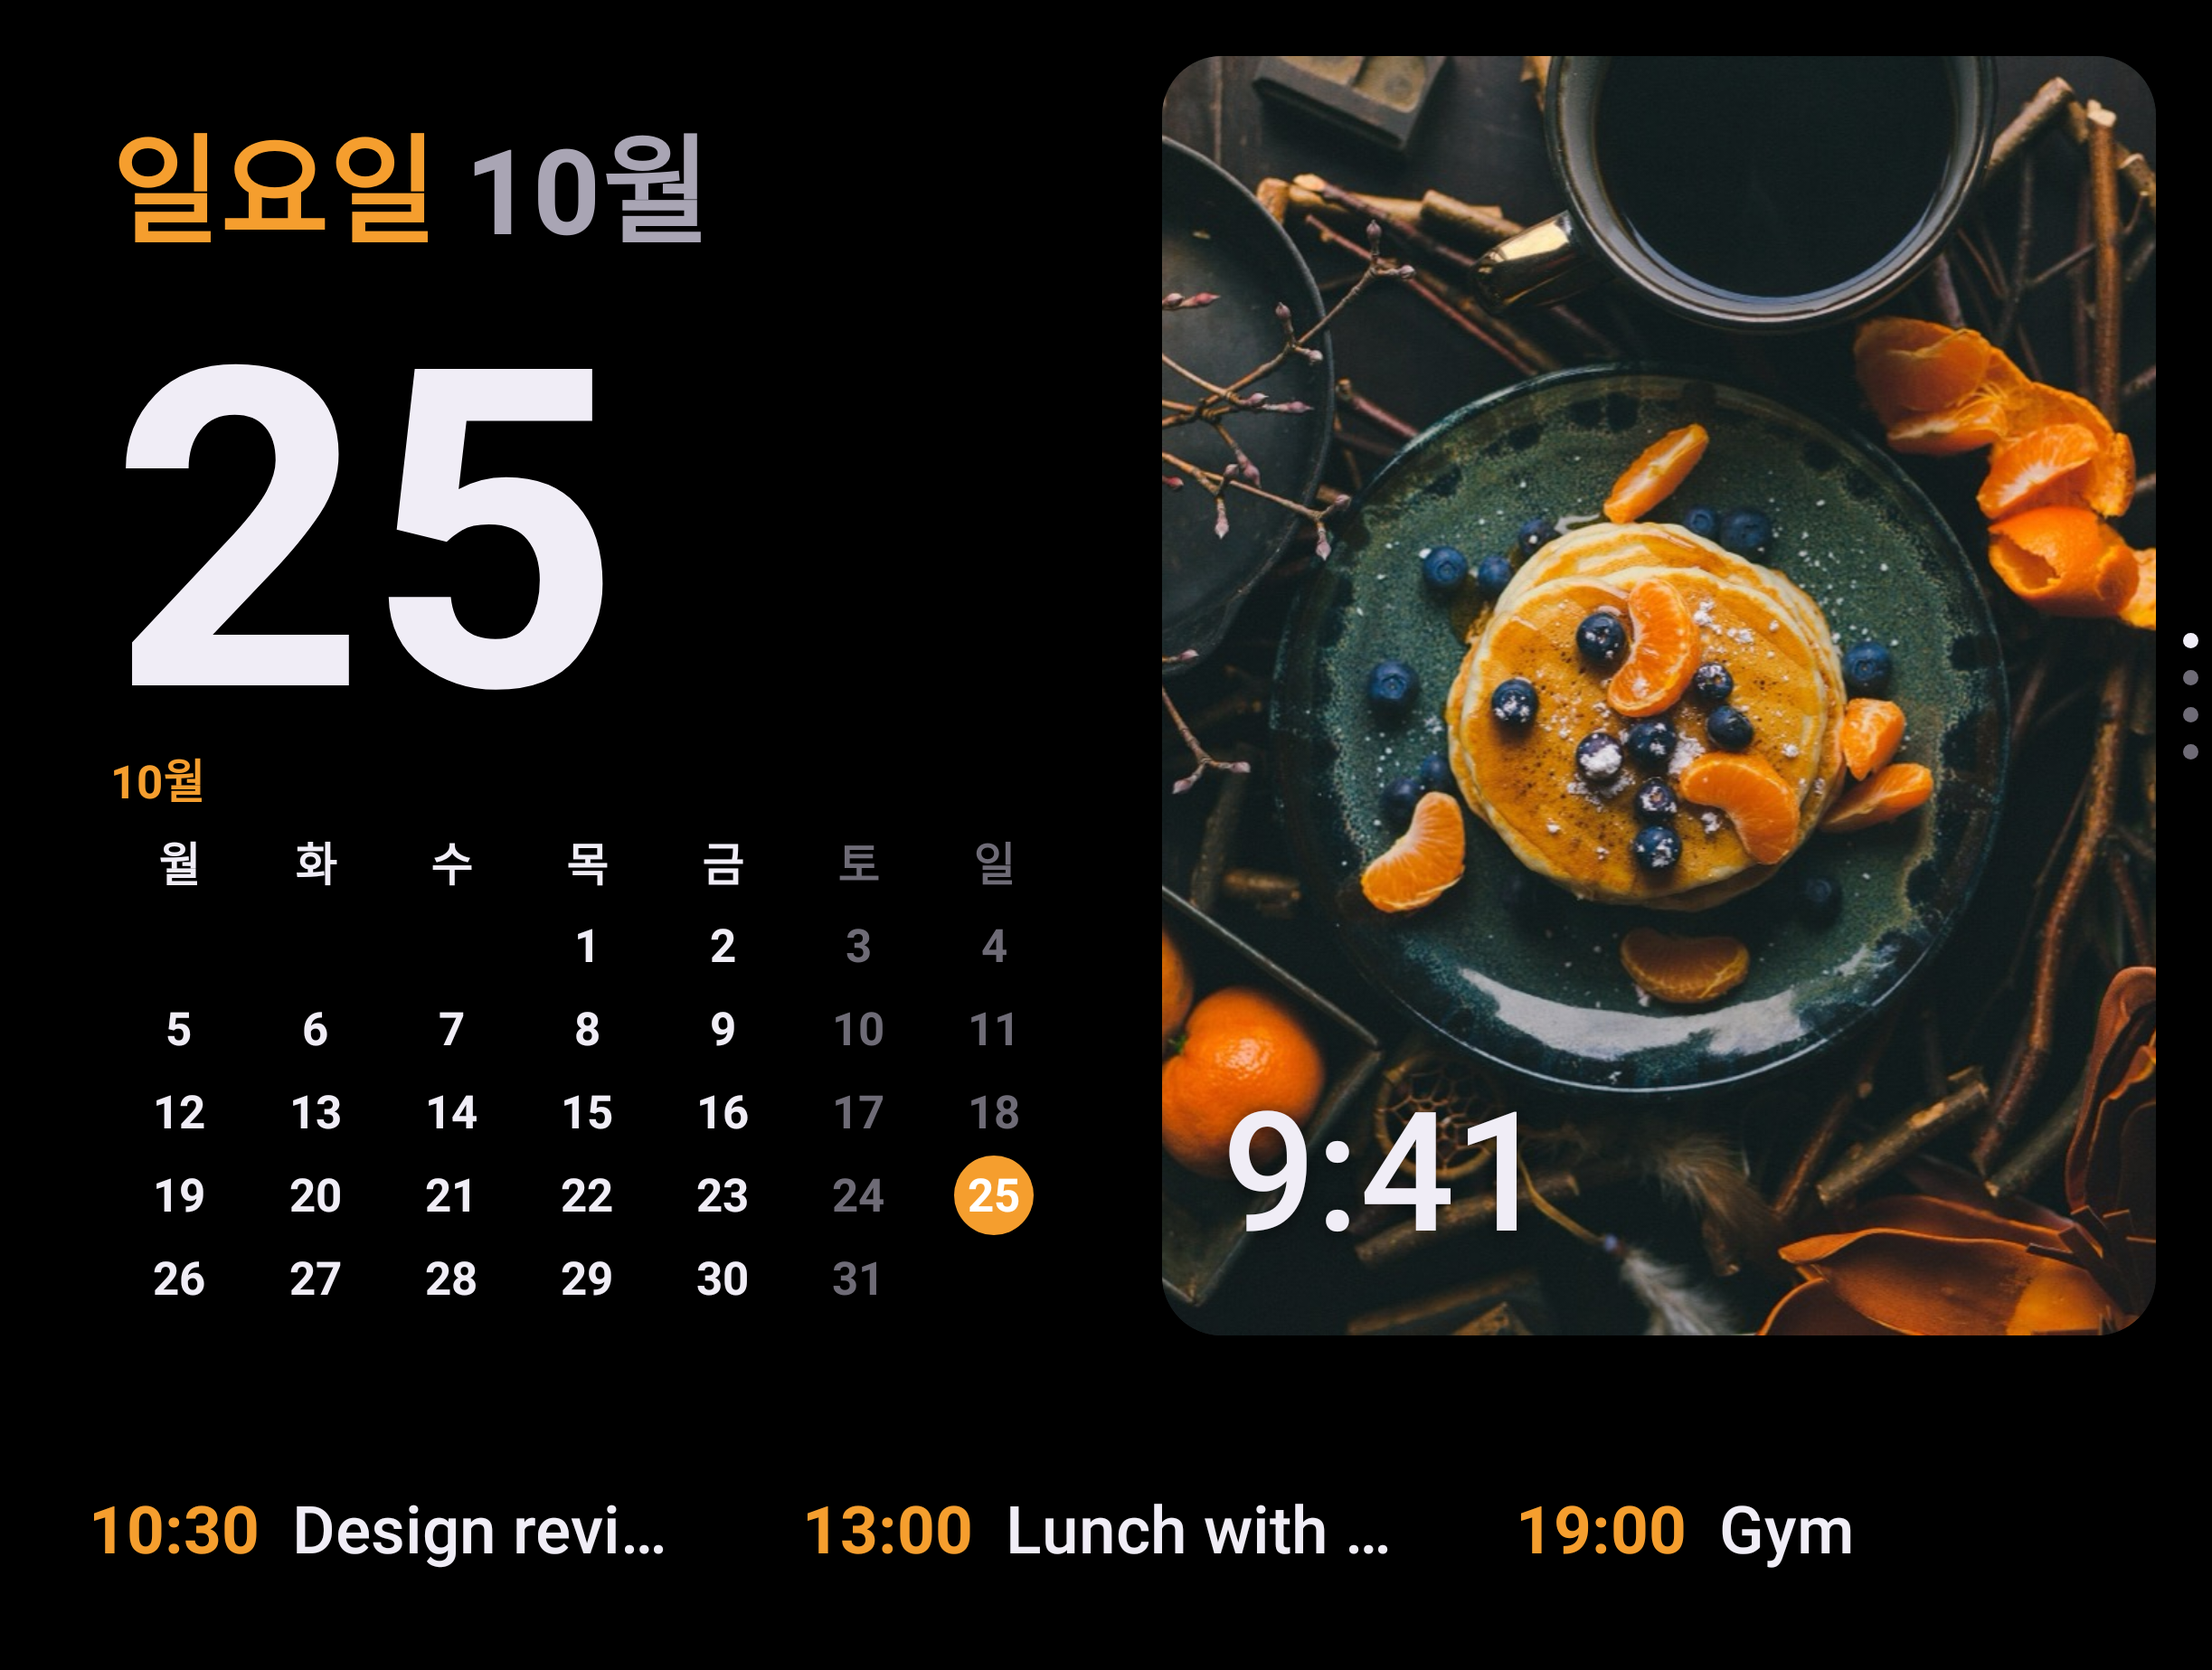
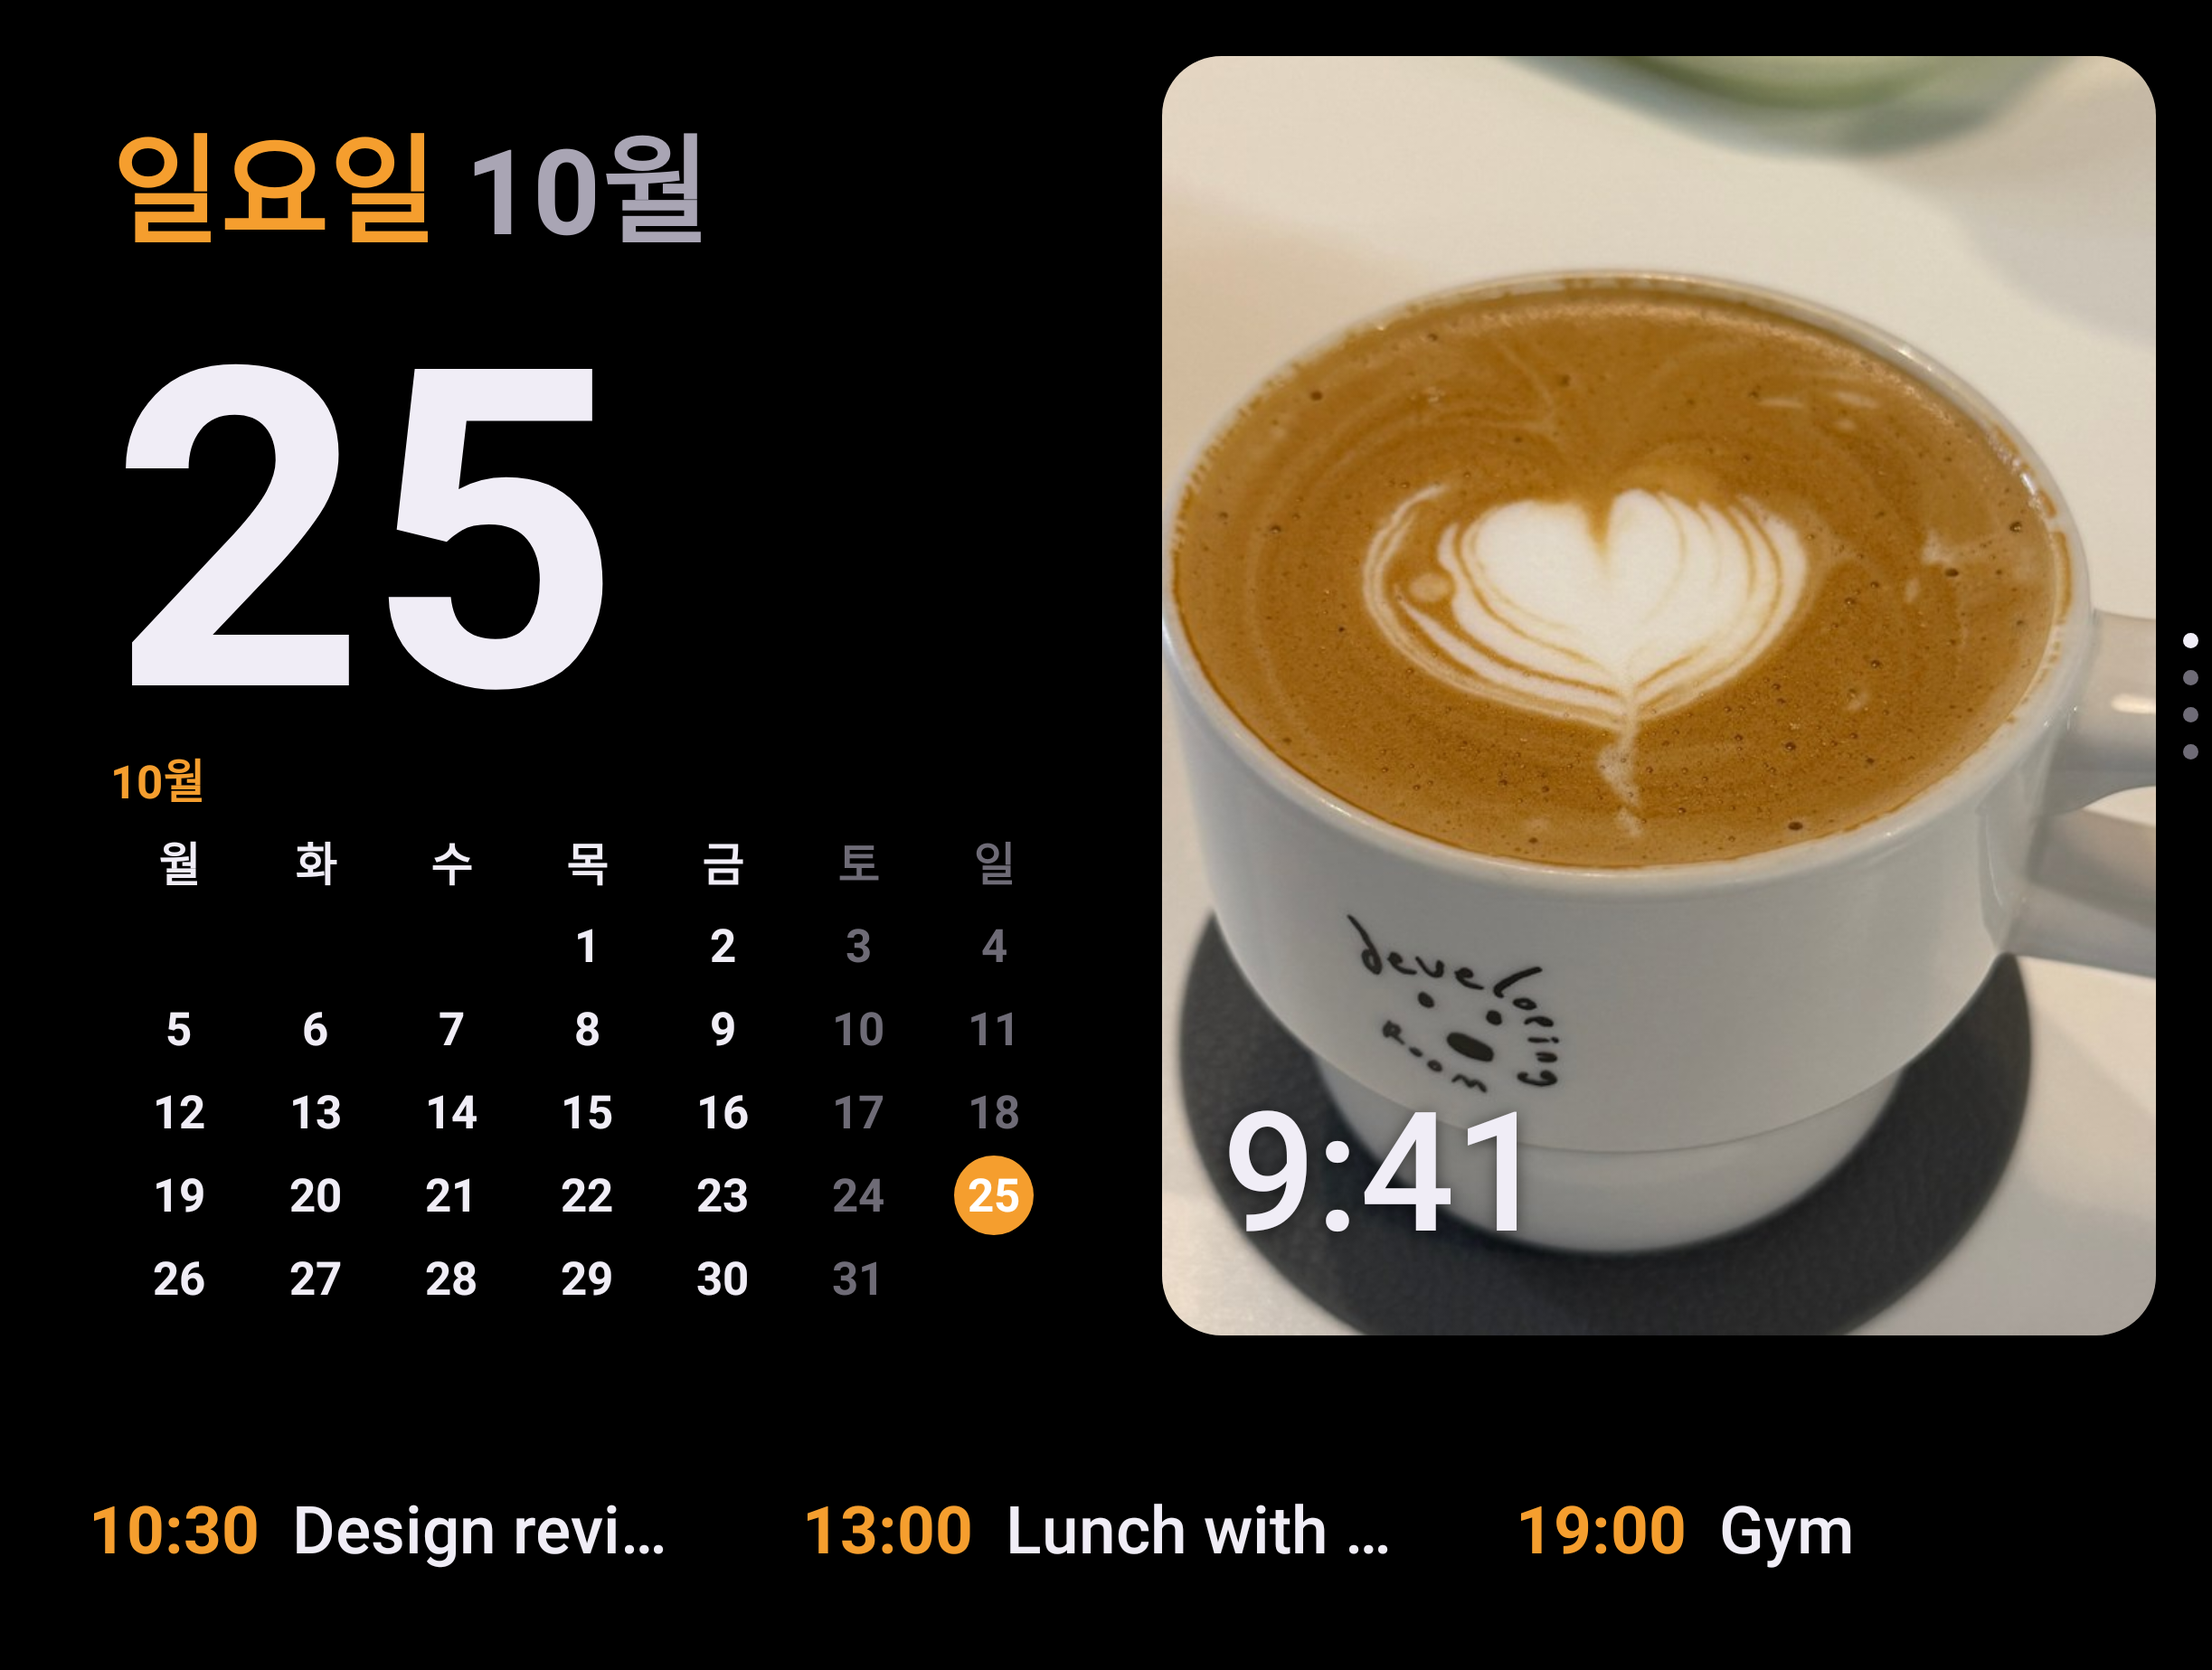
예시 사진을 직접 찍은 라떼 사진으로: 사진 카드 스크린샷, 소셜 미리보기, README 출처
소셜 미리보기를 다시 만드는 scripts/make-social-preview.py 추가.

diff --git a/scripts/make-social-preview.py b/scripts/make-social-preview.py
@@ -1,0 +1,56 @@
+#!/usr/bin/env python3
+"""GitHub 소셜 미리보기 이미지(1280×640)를 만든다. 화면 그림은 screenshots/에서 가져온다.
+    python3 scripts/make-social-preview.py
+만든 뒤 GitHub 저장소 Settings › Social preview에 직접 올린다(API로는 못 바꾼다).
+"""
+from pathlib import Path
+from PIL import Image, ImageDraw, ImageFont
+
+ROOT = Path(__file__).resolve().parent.parent
+KO = "/System/Library/Fonts/AppleSDGothicNeo.ttc"
+NUNITO = ROOT.parent / "app/src/main/res/font/nunito.ttf"  # 이 Mac의 fold-standby 안에 있을 때
+
+W, H = 1280, 640
+bg = Image.new("RGB", (W, H), (10, 10, 12))
+d = ImageDraw.Draw(bg)
+
+
+def ko(size, idx):
+    return ImageFont.truetype(KO, size, index=idx)
+
+
+def shot(path, h=None, w=None, r=20):
+    im = Image.open(path).convert("RGB")
+    if w:
+        h = round(im.height * w / im.width)
+    else:
+        w = round(im.width * h / im.height)
+    im = im.resize((w, h), Image.LANCZOS)
+    m = Image.new("L", (w, h), 0)
+    ImageDraw.Draw(m).rounded_rectangle((0, 0, w - 1, h - 1), r, fill=255)
+    return im, m
+
+
+def framed(img, mask, x, y, r):
+    d.rounded_rectangle((x - 6, y - 6, x + img.width + 5, y + img.height + 5), r + 6, fill=(10, 10, 12))
+    d.rounded_rectangle((x - 3, y - 3, x + img.width + 2, y + img.height + 2), r + 3, fill=(52, 52, 58))
+    bg.paste(img, (x, y), mask)
+
+
+big, bm = shot(ROOT / "screenshots/fold8_inner_land_photos.png", w=600, r=22)
+bx, by = W - big.width - 44, (H - big.height) // 2 - 30
+framed(big, bm, bx, by, 22)
+tall, tm = shot(ROOT / "screenshots/flip8_tabletop_clock.png", h=330, r=18)
+framed(tall, tm, bx - tall.width // 2 - 10, H - tall.height - 28, 18)
+
+title = ImageFont.truetype(str(NUNITO), 84)
+title.set_variation_by_axes([900])
+orange = (245, 158, 46)
+d.text((62, 150), "Standface", font=title, fill=(240, 237, 246))
+d.text((66, 268), "갤럭시를 세워 두면", font=ko(36, 6), fill=(240, 237, 246))
+d.text((66, 316), "켜지는 시계 · 달력 화면", font=ko(36, 6), fill=(240, 237, 246))
+d.text((66, 388), "폴드 · 플립 · S 시리즈", font=ko(28, 6), fill=orange)
+d.text((66, 430), "무료 · 광고 없음 · 한국어", font=ko(24, 3), fill=(169, 165, 180))
+d.text((66, 548), "github.com/svmark/standface", font=ko(22, 3), fill=(110, 107, 118))
+bg.save(ROOT / "social-preview.png")
+print("social-preview.png", bg.size)

diff --git a/README.md b/README.md
@@ -12,7 +12,7 @@
 
 ## 스크린샷
 
-예시 데이터로 그린 화면이에요. 일정과 날씨는 예시이고, 사진 카드의 팬케이크 사진은 Joseph Gonzalez의 CC0 사진이에요([Wikimedia Commons](https://commons.wikimedia.org/wiki/File:Pancakes_(Unsplash).jpg)).
+예시 데이터로 그린 화면이에요. 일정과 날씨는 예시이고, 사진 카드의 라떼 사진은 직접 찍은 사진이에요.
 
 | 달력 + 시계 (기본) | 디지털 |
 |---|---|
@@ -183,4 +183,3 @@ Android 12 이상의 갤럭시라면 설치하고 쓸
 - 앱: [MIT](LICENSE)
 - 글꼴 Nunito: SIL Open Font License 1.1 ([licenses/OFL-Nunito.txt](licenses/OFL-Nunito.txt))
 - 날씨 데이터: [Open-Meteo](https://open-meteo.com/) (CC BY 4.0)
-- 사진 카드 예시 사진: Joseph Gonzalez, CC0 ([Wikimedia Commons](https://commons.wikimedia.org/wiki/File:Pancakes_(Unsplash).jpg))
